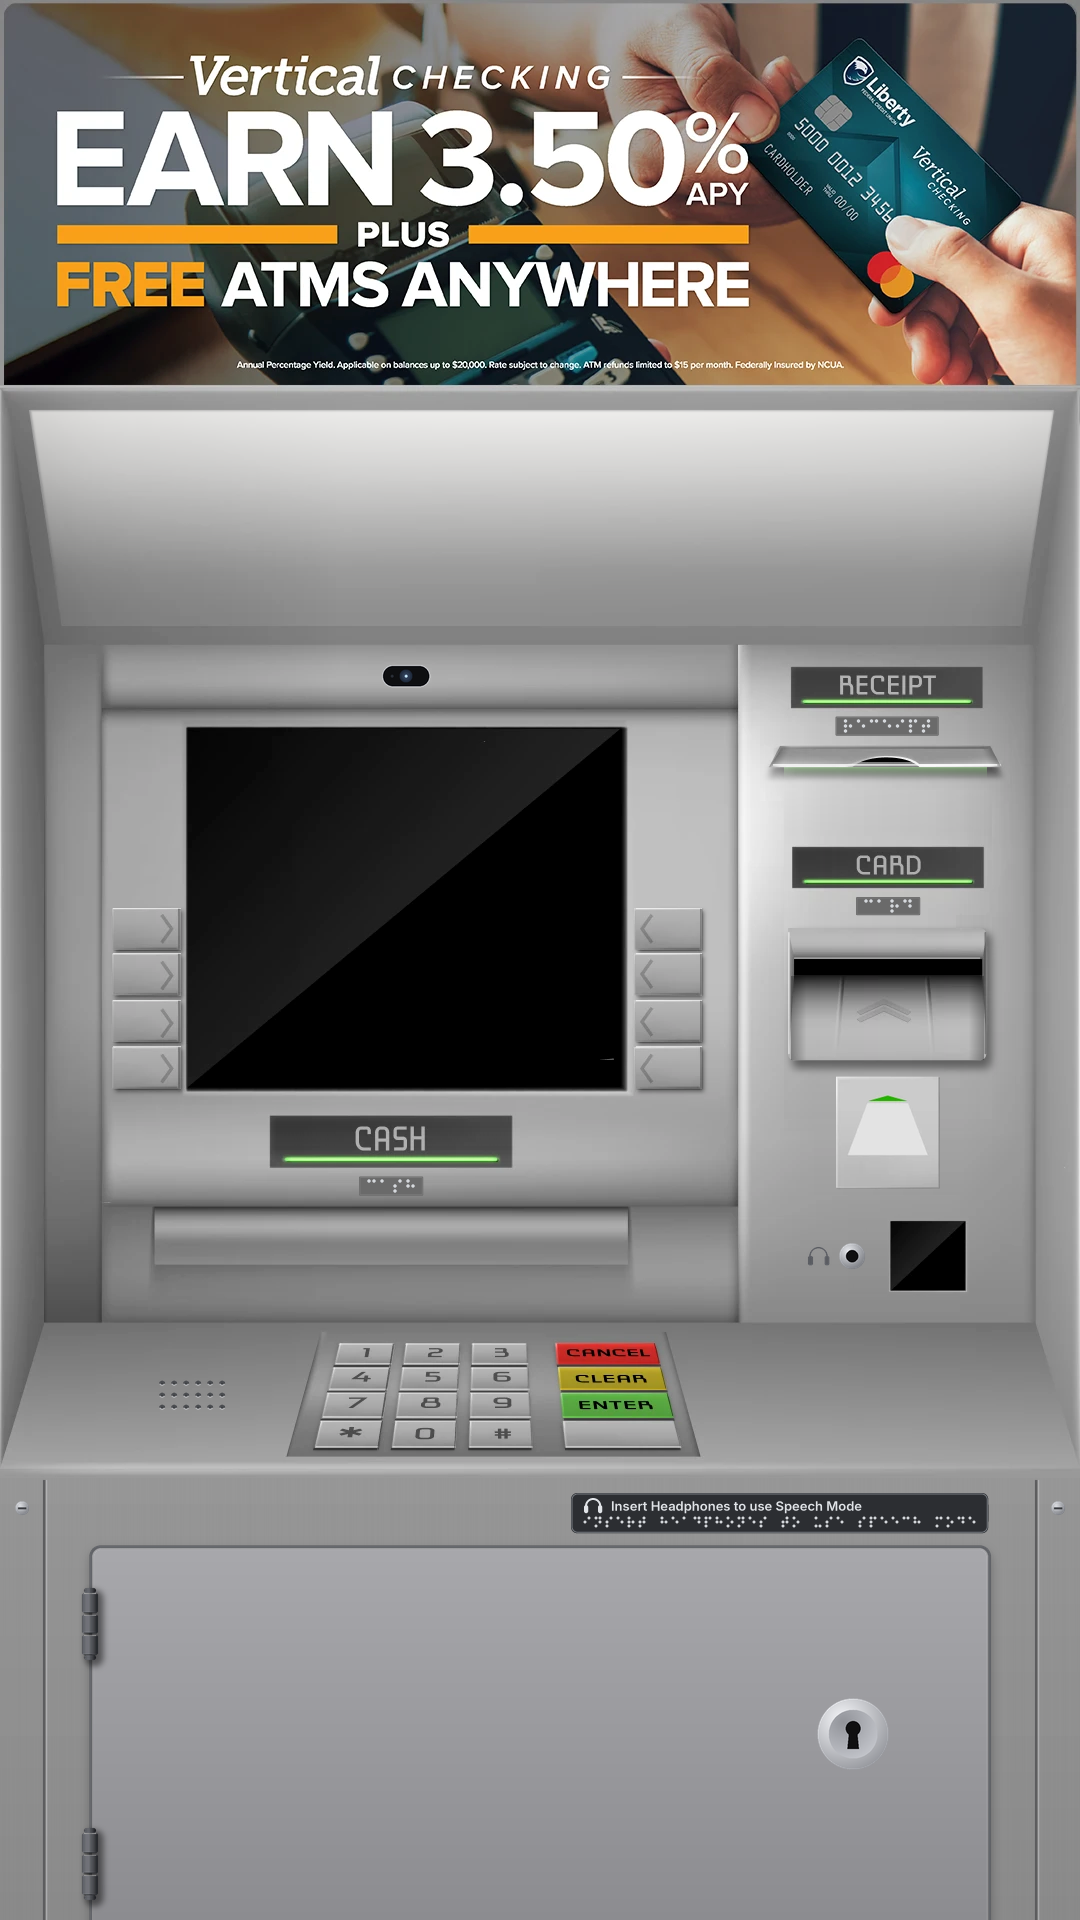
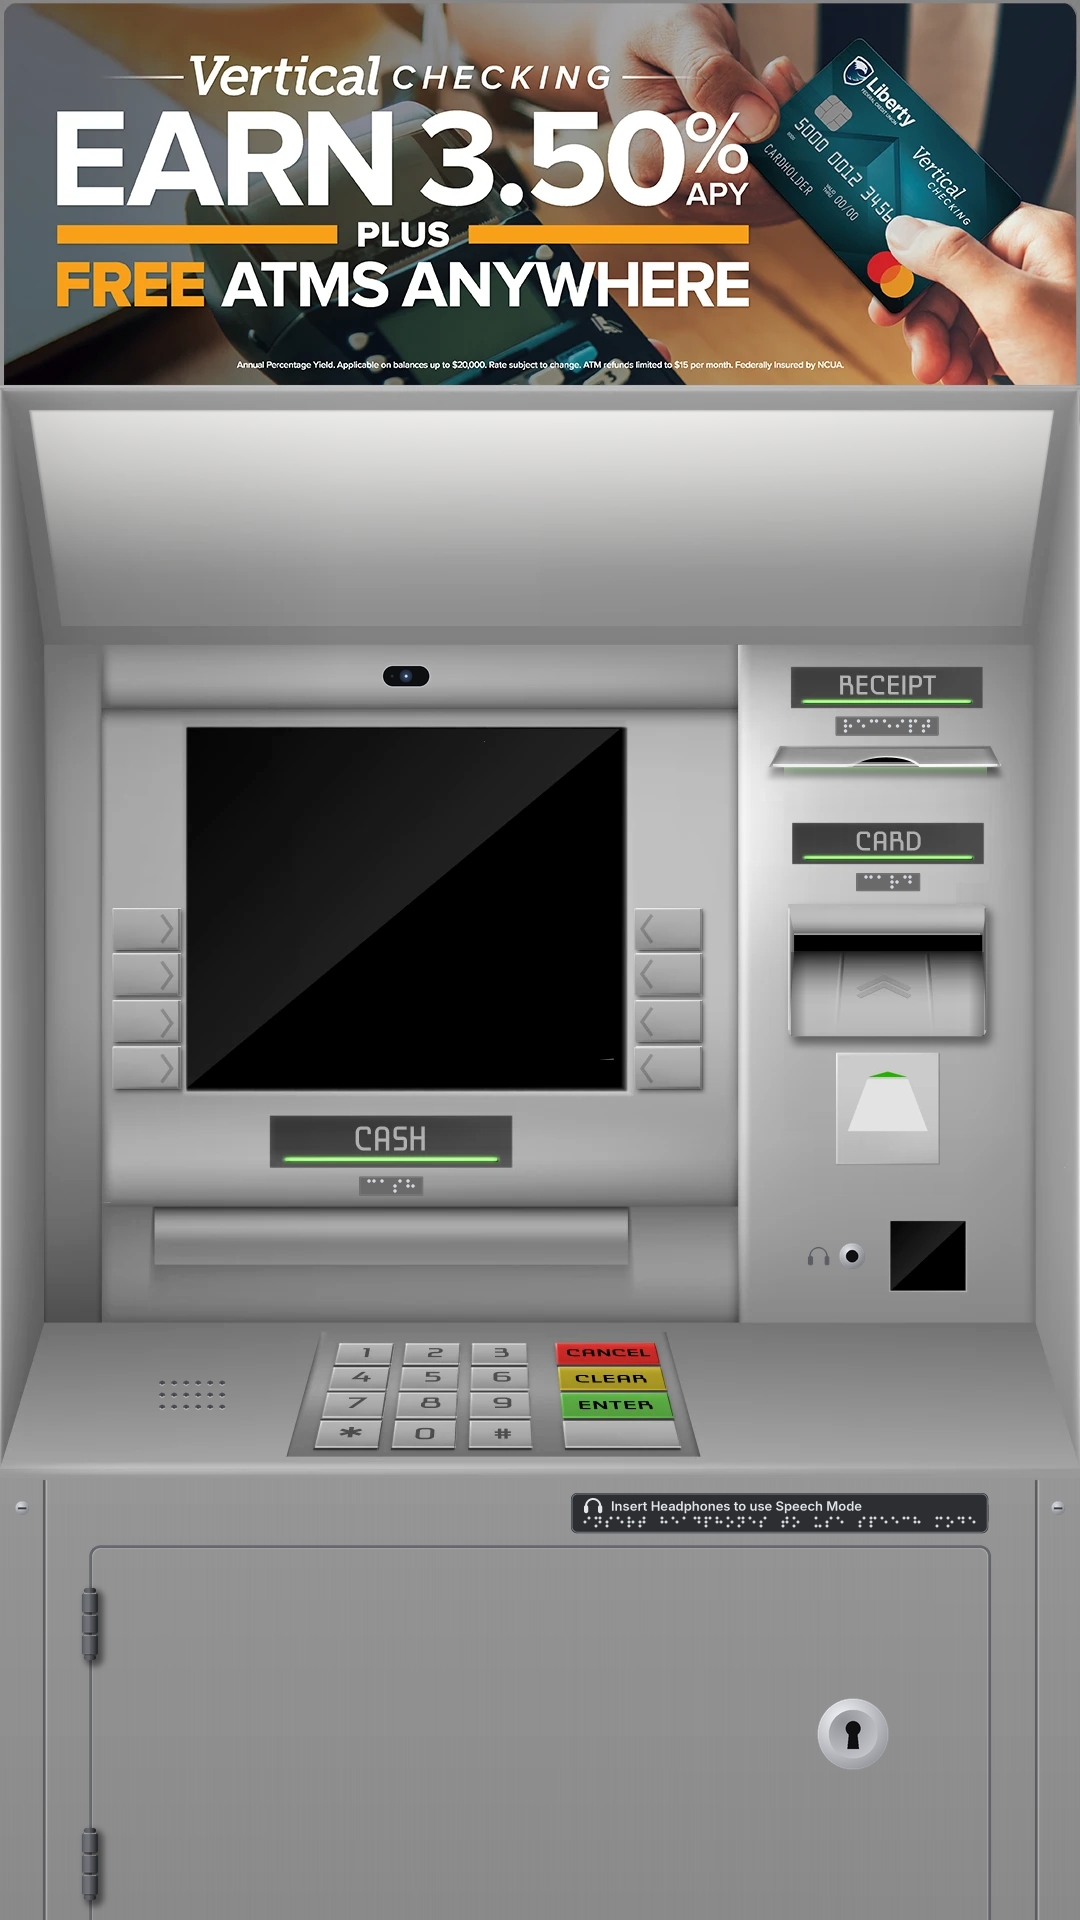
ATM: card group centred between its neighbours; door matches the body
- The card group (label, braille, slot, picture) moves up 24 px so it
  sits centred between the receipt group and the headphone row (56-57
  px each side). ATMAttract.tsx follows: SLOT_Y 945, rest 976, the card
  slot arrows at y 929, the CARD strip at y 857.
- The vault door shows the machine body's own metal instead of a
  lighter painted face; its seam, highlight, hinges and keyhole mark it.

Claude-Session: https://claude.ai/code/session_01KPvVpTs9ZCdeZuPLiaJADF

Changed region(s): [[0.7333, 0.4062, 0.9167, 0.625]]

diff --git a/ATM/ATMAttract.tsx b/ATM/ATMAttract.tsx
@@ -25,7 +25,7 @@ const useRouter: () => unknown = (Framer as { useRouter?: () => unknown }).useRo
 const W = 1080
 const H = 1920
 const SCREEN = { x: 186, y: 728, w: 441, h: 365 } // the screen in the ATM artwork
-const SLOT_Y = 969 // the card disappears above this line (middle of the card slot's opening)
+const SLOT_Y = 945 // the card disappears above this line (middle of the card slot's opening)
 const SLOT_X = 888 // centre of the card slot
 const CARD_W = 120 // the card, upright: short edge first
 const CARD_H = 190
@@ -37,7 +37,7 @@ const ABE_RIPPLE_SECONDS = 1.2 // A + B + E's ripple and zoom (A + B alone takes
 const Z = W / SCREEN.w // zoom at which the screen fills the page width
 const STRIPS = [
     { x: 803, y: 700, w: 169, h: 6, delay: 3 }, // RECEIPT
-    { x: 804, y: 881, w: 169, h: 5, delay: 0 }, // CARD
+    { x: 804, y: 857, w: 169, h: 5, delay: 0 }, // CARD
     { x: 285, y: 1158, w: 213, h: 7, delay: 1.5 }, // CASH
 ]
 // The hood's lit panel under the banner (a trapezoid, narrower at the bottom) and its lower edge.
@@ -290,7 +290,7 @@ export default function ATMAttract(props: Props) {
         const reading = readingRef.current
         if (!card) return
         const from = { y: 2400, s: 1.6 }
-        const rest = 1000 // the card's top edge, resting on the slot's ramp
+        const rest = 976 // the card's top edge, resting on the slot's ramp
         // Times below are written for CARD_SECONDS = 3.1 and scaled to it.
         const at = (sec: number) => (sec * CARD_SECONDS) / 3.1
         const readStart = at(1.7)
@@ -490,10 +490,10 @@ export default function ATMAttract(props: Props) {
                             style={{ left: s.x, top: s.y, width: s.w, height: s.h, animationDelay: `${s.delay}s` }}
                         />
                     ))}
-                    <svg className={`${c("abs")} ${c("chevEl")}`} viewBox="790 953 196 120" style={{ left: 790, top: 953, width: 196, height: 120 }}>
-                        <rect x={796} y={961} width={184} height={15} rx={2} style={{ fill: slotColor, opacity: 0.35 }} />
-                        <polyline points="858,1014 884,999 911,1014" />
-                        <polyline points="858,1023 884,1008 911,1023" />
+                    <svg className={`${c("abs")} ${c("chevEl")}`} viewBox="790 929 196 120" style={{ left: 790, top: 929, width: 196, height: 120 }}>
+                        <rect x={796} y={937} width={184} height={15} rx={2} style={{ fill: slotColor, opacity: 0.35 }} />
+                        <polyline points="858,990 884,975 911,990" />
+                        <polyline points="858,999 884,984 911,999" />
                     </svg>
                     <div style={{ position: "absolute", inset: 0, clipPath: `inset(${SLOT_Y}px 0 0 0)`, pointerEvents: "none" }}>
                         <div

diff --git a/ATM/artwork/edit_atm.py b/ATM/artwork/edit_atm.py
@@ -198,17 +198,10 @@ comp(L)
 
 # ---------- vault access door ----------
 DX0, DY0, DX1, DY1 = 92, 1548, 988, 1980  # runs past the bottom edge: no bottom seam shows; top lowered to give the label strip room
-# soft drop shadow inside the gap (door sits a hair proud)
-sh = layer(); ImageDraw.Draw(sh).rounded_rectangle(s(DX0 - 2, DY0 + 3, DX1 + 3, DY1 + 6), radius=10 * S, fill=(0, 0, 0, 60))
-comp(sh, blur=5)
+# The door is the machine body itself (same metal and grain): only its seam, a faint highlight,
+# the hinges and the keyhole mark it. (A painted face in its own lighter grey didn't match the body.)
 L = layer(); d = ImageDraw.Draw(L)
-d.rounded_rectangle(s(DX0 - 2.5, DY0 - 2.5, DX1 + 2.5, DY1 + 2.5), radius=11 * S, fill=(96, 98, 102, 255))  # the seam gap: thin and only a little darker than the body
-# door face: top-lit vertical gradient
-face = np.linspace(168, 136, DY1 - DY0)[:, None].repeat(DX1 - DX0, 1)
-face = Image.fromarray(face.astype(np.uint8)).resize(((DX1 - DX0) * S, (DY1 - DY0) * S))
-fm = Image.new("L", face.size, 0)
-ImageDraw.Draw(fm).rounded_rectangle([0, 0, face.size[0] - 1, face.size[1] - 1], radius=9 * S, fill=255)
-L.paste(Image.merge("RGBA", (face, face, face.point(lambda v: min(255, v + 4)), fm)), s(DX0, DY0), fm)
+d.rounded_rectangle(s(DX0 - 2.5, DY0 - 2.5, DX1 + 2.5, DY1 + 2.5), radius=11 * S, outline=(96, 98, 102, 255), width=round(2.5 * S))  # the seam gap: thin and only a little darker than the body
 d.rounded_rectangle(s(DX0, DY0, DX1, DY1), radius=9 * S, outline=(200, 202, 206, 90), width=S)  # faint bevel highlight
 d.line(s(DX0 + 8, DY1 - 1, DX1 - 8, DY1 - 1), fill=(96, 98, 102, 255), width=2 * S)  # bottom bevel shade
 IX1 = DX1 - 270  # the keyhole is centred between here and the door's right edge

diff --git a/ATM/artwork/options.py b/ATM/artwork/options.py
@@ -244,7 +244,7 @@ fl = ImageFont.truetype(INTER, 13 * Z)
 SPEECH_W = ImageDraw.Draw(Image.new("L", (1, 1))).textlength("Insert Headphones to use Speech Mode", font=fl) / Z + 52
 SPEECH_X0, SPEECH_CY = 988 - SPEECH_W, (1478 + 1528) / 2
 SPOTS = [("receipt", 887, 719), ("card", 888, 870), ("cash", 391, 1191.5)]
-SPOTS_FINAL = [("receipt", 887, 726), ("card", 888, 906), ("cash", 391, 1186)]  # after the label and slot moves;
+SPOTS_FINAL = [("receipt", 887, 726), ("card", 888, 882), ("cash", 391, 1186)]  # after the label and slot moves;
 # each braille plate sits about 9 px under its label, the same gap for RECEIPT, CARD and CASH
 
 a = start()
@@ -276,7 +276,7 @@ CARD_LABEL_RISE = 12  # the CARD label (y 818-860) moves up; the card slot stays
 move_rows(a, 784, 992, 790, 879, -CARD_LABEL_RISE)
 # card picture (the white card guide, x 822-954, y 1043-1188 with its shadow) gets smaller, so the whole card
 # group (label, braille, slot) can move down and open the gap under the receipt group
-CARD_DROP, PIC_SCALE = 40, 0.78
+CARD_DROP, PIC_SCALE = 16, 0.78  # 16: the card group sits centred between the receipt group and the headphone row (56 px each side)
 pic = Image.fromarray(a[1043:1189, 822:955].astype(np.uint8), "RGBA")
 lft, rgt = a[1040:1195, 813, :3].copy(), a[1040:1195, 963, :3].copy()  # paint the panel back where it was
 wgt = np.linspace(0, 1, 963 - 813)[None, :, None]

diff --git a/ATM/NOTES.md b/ATM/NOTES.md
@@ -342,10 +342,10 @@ label, so these were updated to match (measured on the image):
 
 | Constant | Was | Now | Why |
 |---|---|---|---|
-| `SLOT_Y` | 921 | 969 | the card slot is 48 px lower (40 with its group, then 8 more) |
-| `rest` (in `cardIn`) | 952 | 1000 | the card rests 48 px lower, on the slot's ramp |
-| card slot arrows `<svg>` (`top`, `viewBox`, the rect and both chevrons) | y 905 | y 953 | they flash on the slot, 48 px lower |
-| `STRIPS` CARD `y` | 853 | 881 | the CARD label is 28 px lower (up 12, then the group down 40) |
+| `SLOT_Y` | 921 | 945 | the card slot is 24 px lower (16 with its group, then 8 more) |
+| `rest` (in `cardIn`) | 952 | 976 | the card rests 24 px lower, on the slot's ramp |
+| card slot arrows `<svg>` (`top`, `viewBox`, the rect and both chevrons) | y 905 | y 929 | they flash on the slot, 24 px lower |
+| `STRIPS` CARD `y` | 853 | 857 | the CARD label is 4 px lower (up 12, then the group down 16) |
 | `STRIPS` CASH `y` | 1168 | 1158 | the CASH label is 10 px higher |
 
 `SCREEN`, `HOOD`, `KEYPAD`, `SLOT_X` and the RECEIPT strip did not move.
@@ -354,7 +354,7 @@ label, so these were updated to match (measured on the image):
 
 | Feedback | Where |
 |---|---|
-| Door position, seam, hinges | `edit_atm.py`: `DX0, DY0, DX1, DY1` (door top at y 1548; runs past the bottom edge), the seam gap and bevel lines after it, the hinge loop (`HW`, `HH`, `CAP`, colours `lo`/`hi`) |
+| Door position, seam, hinges | `edit_atm.py`: `DX0, DY0, DX1, DY1` (door top at y 1548; runs past the bottom edge; the door has no face of its own, it is the body), the seam gap and bevel lines after it, the hinge loop (`HW`, `HH`, `CAP`, colours `lo`/`hi`) |
 | Keyhole size / brightness / position | `edit_atm.py`: `K` (1.62), the two `paste_disc` colours, `KX, KY` (centred in the visible door, right of `IX1`) |
 | Camera | `edit_atm.py`: `CAMX, CAMY` and the lines after it |
 | Headphone icon, jack, black square row | `edit_atm.py`: `PANEL_C, GAP, ICON_GAP, JACK_D, SQ_W`, `IS` (icon scale) |
@@ -366,7 +366,7 @@ label, so these were updated to match (measured on the image):
 | Green on the slots | `options.py`: `SLOT_GREEN` (the **Slot Light** colour, `#7cf25e`) |
 | Braille words, size, plates | `options.py`: `DOTS` (letters), `SPOTS_FINAL` (where), `flat`/`sm` (dot size and spacing), `plate(...)` colours |
 | Speech Mode label | `options.py`: `SENT`, `PW2, PH2, P0, PT` |
-| Spacing of the right panel and cash | `options.py`: `RECEIPT_DROP` (16), `CARD_LABEL_RISE` (12), `CARD_DROP` (40, the whole card group), `INSERT_DROP` (8, the card slot alone), `PIC_SCALE` (0.78) and the picture's `py0` (follows the slot), `CASH_LABEL_RISE` (10) |
+| Spacing of the right panel and cash | `options.py`: `RECEIPT_DROP` (16), `CARD_LABEL_RISE` (12), `CARD_DROP` (16, the whole card group, centred between its neighbours), `INSERT_DROP` (8, the card slot alone), `PIC_SCALE` (0.78) and the picture's `py0` (follows the slot), `CASH_LABEL_RISE` (10) |
 
 ### Decisions log (the image)
 
@@ -474,6 +474,17 @@ In the order they were made with the designer:
   The picture keeps its 16 px under the slot and sits about 30 px above
   the headphone row. `ATMAttract.tsx` follows (`SLOT_Y` 969, `rest`
   1000, the card slot arrows at y 953).
+- **Card group centred**: the whole card group (label, braille, slot,
+  picture) moved up 24 px (`CARD_DROP` 40 → 16) so it sits centred
+  between the receipt group (bottom of the receipt lip, y 766) and the
+  headphone row (top of the black square, y 1220): 56-57 px each side.
+  `ATMAttract.tsx` follows (`SLOT_Y` 945, `rest` 976, the card slot
+  arrows at y 929, the CARD strip at y 857).
+- **Door colour matches the body**: the door no longer has a painted
+  face in its own lighter, slightly blue grey; it shows the machine
+  body's own metal and grain. Only its thin seam, a faint highlight,
+  the hinges and the keyhole mark it (its drop shadow went with the
+  painted face).
 
 ## How it was made
 
